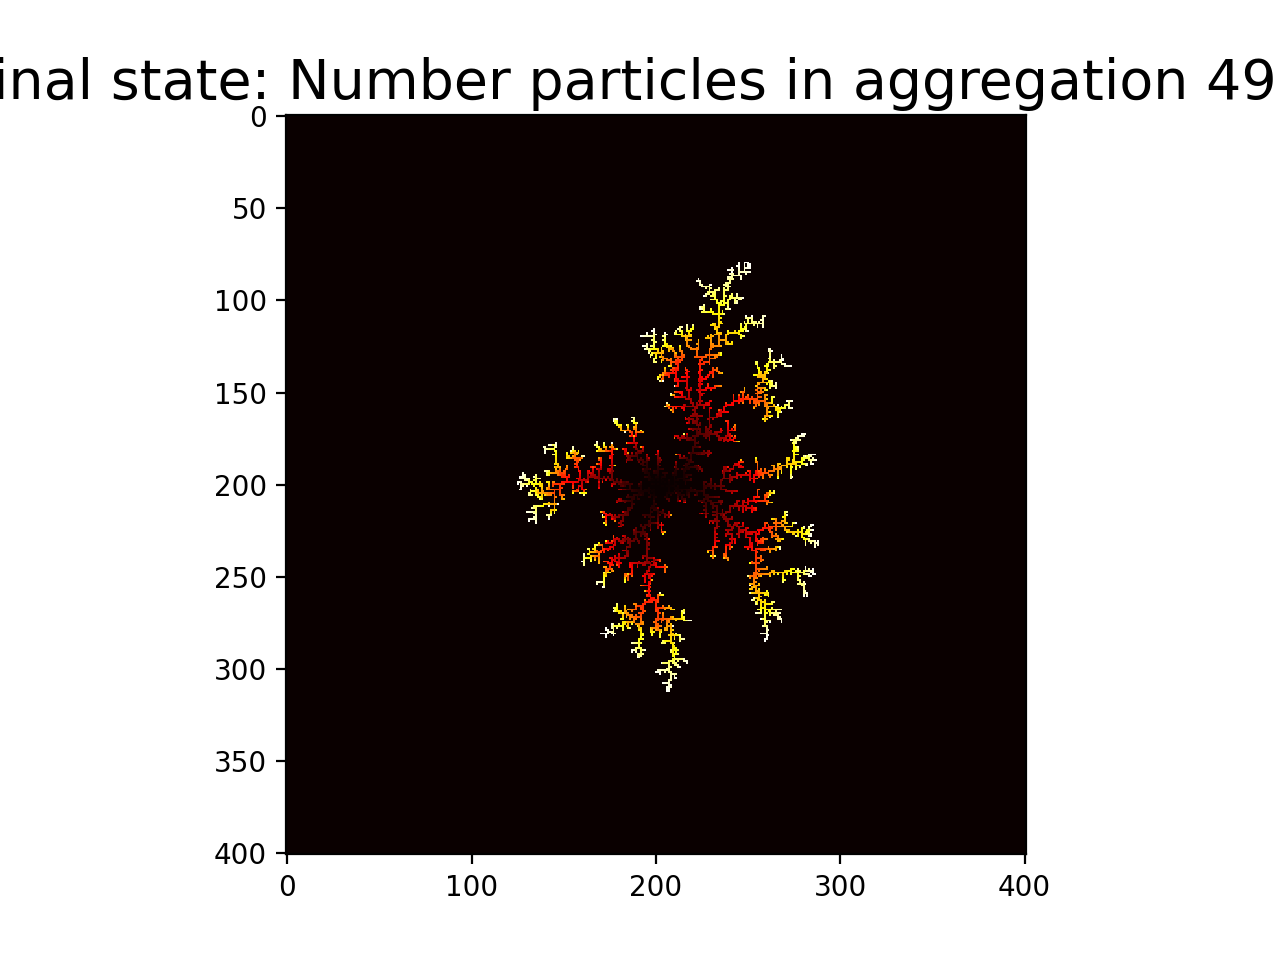
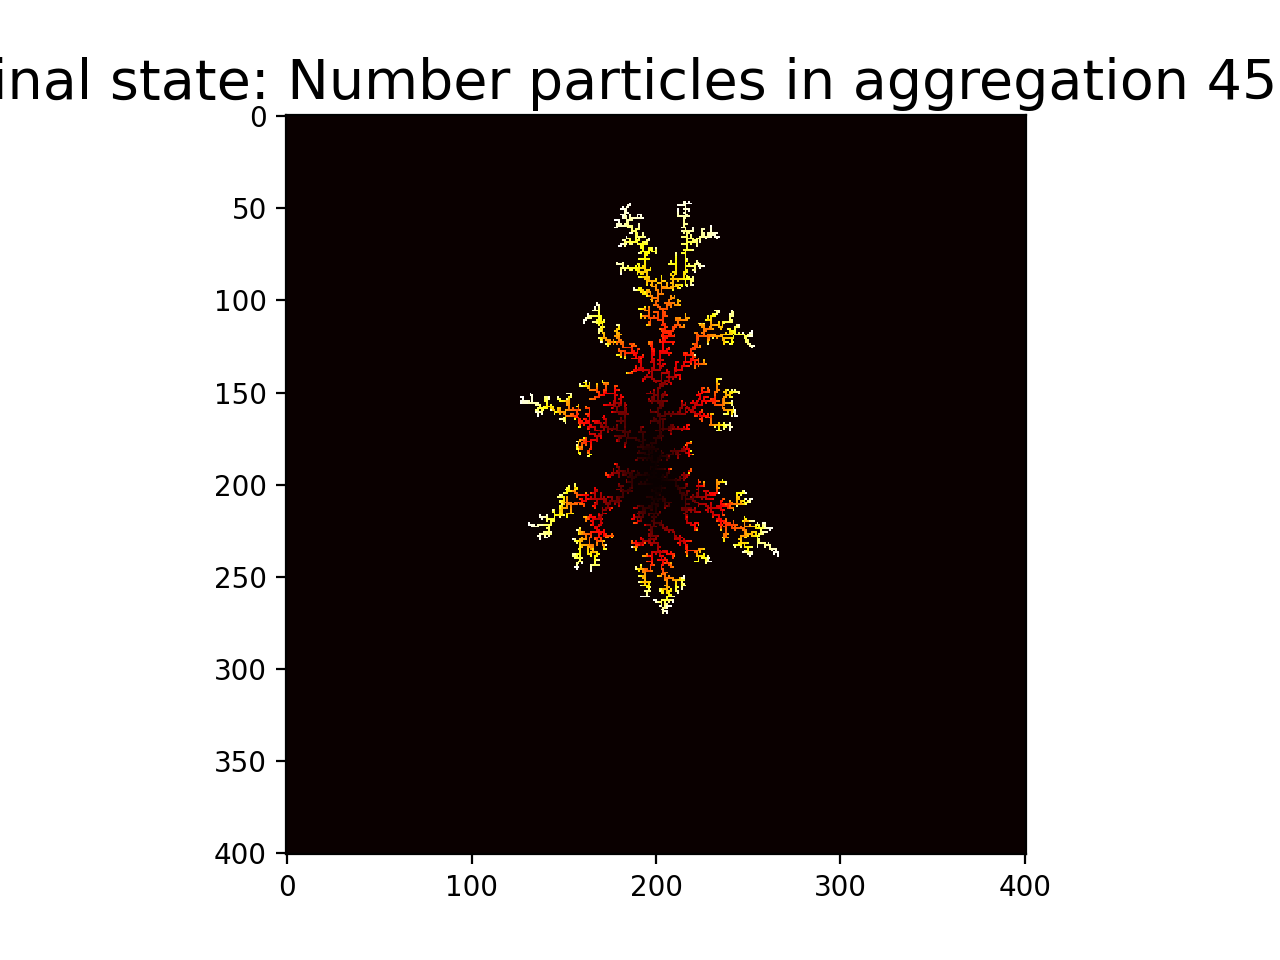
Update 2D continous DLA

diff --git a/DLA.py b/DLA.py
@@ -5,13 +5,14 @@ import random
 import matplotlib.pyplot as plt
 from GifRecorder import GifRecoder
 from ImageRecorder import ImageRecoder
+
+
 class DLA:
-    def __init__(self, radius_limit: int, numParticles: int, stickDistribution: StickDistribution):
+    def __init__(self, radius_limit: int, numParticles: int, stickDistribution: StickDistribution, result_name_file=None):
         self.radius_limit = radius_limit
         self.numParticles = numParticles
         self.stickDistribution = stickDistribution
         self.stickDistribution.dla = self
-
         size = 2*self.radius_limit+1
         self.surface_matrix = np.zeros((size,size),dtype=np.int32)
 
@@ -22,28 +23,45 @@ class DLA:
         self.gen_radius = self.max_radius+5
         self.remove_radius = self.max_radius+20
 
-        self.nnStepsPos = [(1,0), (0,1), (-1,0), (0,-1)]
-        self.nnStepsIndex = [(self.radius_limit+1,self.radius_limit),
-                             (self.radius_limit,self.radius_limit+1),
-                             (self.radius_limit - 1, self.radius_limit),
-                             (self.radius_limit, self.radius_limit - 1)]
+        self.nnStepsPos = [(1,0), (0,1), (-1,0), (0,-1), (-1, -1), (-1, 1), (1, -1), (1, 1)]
+        self.nnStepsIndex = [(self.radius_limit+1, self.radius_limit),
+                             (self.radius_limit, self.radius_limit+1),
+                             (self.radius_limit-1, self.radius_limit),
+                             (self.radius_limit, self.radius_limit - 1),
+                             (self.radius_limit-1, self.radius_limit-1),
+                             (self.radius_limit-1, self.radius_limit+1),
+                             (self.radius_limit+1, self.radius_limit-1),
+                             (self.radius_limit+1, self.radius_limit+1)]
 
+        self.result_name_file = result_name_file
         self.recordIntervals = list(range(0,numParticles,50))
-        self.recorders = {"gif": GifRecoder(dla=self),
-                          "image": ImageRecoder(dla=self)}
+        self.recorders = {"gif": GifRecoder(dla=self, name_file=self.result_name_file),
+                          "image": ImageRecoder(dla=self, name_file=self.result_name_file)}
 
+
+    # pos is relative point to midpoint of the matrix.
+    # Assume midpoint=(0,0) but actually MidPoint=(self.radius_limit,self.radius_limit)
+    # Function: Check pos is in circle which has a remove_radius
     def inKeepCircle(self, pos: (int, int)) -> bool:
         if pos[0]**2 + pos[1]**2 <= self.remove_radius**2:
             return True
         else:
             return False
 
+    # Function: Check Is there 0-value at neighborhood position. Return false if 0-value at pos or true
     def isNNOccupied(self, pos: (int, int)) -> bool:
         for stepIndex in self.nnStepsIndex:
             if self.surface_matrix[pos[0]+stepIndex[0],pos[1]+stepIndex[1]]:
                 return True
         return False
 
+    def isOccupied(self, pos: (int, int)) -> bool:
+        if self.surface_matrix[pos[0] + self.radius_limit, pos[1] + self.radius_limit]:
+            return True
+        else:
+            return False
+
+    # Function: Update state of DLA when particle hit aggregation
     def hitUpdate(self, pos: (int, int)):
         self.num_hits += 1
         self.surface_matrix[pos[0]+self.radius_limit,pos[1]+self.radius_limit] = self.num_hits
@@ -54,11 +72,14 @@ class DLA:
             self.gen_radius = min(self.max_radius+5,self.radius_limit-1)
             self.remove_radius = min(self.max_radius+20,self.radius_limit-1)
 
+    # Function: A Stage for diffusion: particle random walk in lattice
+    # Return: A boolean which check particle is in safe circle, new position
     def genStep(self, pos: (int, int)) -> (bool, (int, int)):
         step = random.choice(self.nnStepsPos)
         new_pos = (pos[0]+step[0],pos[1]+step[1])
         return self.inKeepCircle(new_pos), new_pos
 
+    # Function: Check particle hit and stick to aggregation ?
     def checkAggregate(self, pos: (int, int)) -> bool:
         if self.isNNOccupied(pos):
             if self.stickDistribution.can_stick(pos):
@@ -68,11 +89,13 @@ class DLA:
         else:
             return False
 
+    # Function: Random position in circle which has a gen_radius
     def random_pos(self):
         angle = random.random()*2*pi
         pos = (int(sin(angle) * self.gen_radius), int(cos(angle) * self.gen_radius))
         return pos
 
+    # Function: Add particle reach until particle binding to aggregation (try 10. If particle hasn't added, ignore it)
     def addWalker(self, max_try=10):
         flag = False
         while max_try:

diff --git a/GeneralDLA.py b/GeneralDLA.py
@@ -1,0 +1,112 @@
+import numpy as np
+import random as random
+from math import pi, cos, sin, sqrt
+from StickDistribution import StickDistribution
+from utils import Helper
+
+class GeneralDLA():
+
+    def __init__(self, num_particle, limit_radius, stick_distribution: StickDistribution, bias=0):
+
+        self.num_particle = num_particle
+        self.limit_radius = limit_radius
+        self.particles = np.zeros((num_particle, 3))
+        self.particles[0] = (0, 0, 0)
+        self.stick_distribution = stick_distribution
+        self.seed_particle_x = limit_radius
+        self.seed_particle_y = limit_radius
+        # Can change hype parameter in here
+        self.radius_bounding = 0
+        self.radius_gen = self.radius_bounding + 4
+        self.radius_kill = self.radius_gen + 4
+        self.radius_circle = 1
+        self.radius_step = self.radius_circle
+        self.stick_distance = self.radius_circle * 2
+        self.particles[:, 2] = self.radius_circle
+        self.bias = bias
+
+    @staticmethod
+    def distance(pos1: (int, int), pos2: (int, int) = None) -> float:
+        if pos2 is not None:
+            return sqrt((pos1[0] - pos2[0]) ** 2 + (pos1[1] - pos2[1]) ** 2)
+        else:
+            return sqrt((pos1[0]) ** 2 + (pos1[1]) ** 2)
+
+    def brownian_motion(self, time):
+        pass
+
+    def diffusion(self, x, y):
+        # Implementation for random walker
+        angle = random.random() * 2 * pi
+        dx = self.radius_step * cos(angle)
+        dy = self.radius_step * sin(angle)
+        if self.bias == 0:
+            return x + dx, y + dx
+        else:
+            dis = GeneralDLA.distance((x, y))
+            new_x = x + dx - self.bias * x / dis
+            new_y = y + dy - self.bias * y / dis
+            return new_x, new_y
+
+    def bindingToAggregation(self, index, x, y):
+        self.particles[index][0] = x
+        self.particles[index][1] = y
+        dis = GeneralDLA.distance((x, y))
+        if dis > self.radius_bounding:
+            self.radius_bounding = dis
+            self.radius_gen = self.radius_bounding + 4
+            self.radius_kill = self.radius_gen + 4
+
+    def randomGenPosition(self):
+        # random_radius = random.randrange(self.gen+1, self.radius_kill)
+        angle = random.random() * 2 * pi
+        x = self.radius_gen * cos(angle)
+        y = self.radius_gen * sin(angle)
+
+        return x, y
+
+    def isBindingToAggregation(self, index, x, y):
+        is_bounding = False
+        for pre_index in range(index):
+            dx = x - self.particles[pre_index][0]
+            dy = y - self.particles[pre_index][1]
+            dis = GeneralDLA.distance((dx, dy))
+            if dis <= self.stick_distance:
+                is_bounding = True
+                break
+        if is_bounding:
+            if self.stick_distribution.can_stick((x, y)):
+                return True
+            return False
+        return False
+
+    def isInSafeArea(self, x, y):
+        dis = GeneralDLA.distance((x, y))
+        if dis < self.radius_kill:
+            return True
+        return False
+
+    def build(self):
+        for index in range(self.num_particle - 1):
+            index += 1
+            # Random position for particle
+            x, y = self.randomGenPosition()
+            print('start x, y:', x, y)
+            while not self.isBindingToAggregation(index, x, y):
+                x, y = self.diffusion(x, y)
+                if not self.isInSafeArea(x, y):
+                    x, y = self.randomGenPosition()
+            self.bindingToAggregation(index, x, y)
+            print('===========Particle:', index)
+
+        for index, particle in enumerate(self.particles):
+            self.particles[index][0] = particle[0] + self.seed_particle_x
+            self.particles[index][1] = particle[1] + self.seed_particle_y
+
+    def simulation(self, file_name):
+        self.build()
+        Helper.simulate_dla(self.particles, self.limit_radius, file_name)
+
+
+if __name__ == '__main__':
+    print(GeneralDLA.distance((3, 4)))

diff --git a/GifRecorder.py b/GifRecorder.py
@@ -4,10 +4,11 @@ import matplotlib.pyplot as plt
 import os
 
 class GifRecoder(Recorder):
-    def __init__(self, dla = None):
+    def __init__(self, dla = None, name_file=None):
         super(GifRecoder, self).__init__(dla=dla)
         self.states = []
         self.count = 0
+        self.name_file = name_file
 
     def record(self):
         label = "Number particles in aggregation "+str(self.dla.num_hits)
@@ -19,7 +20,7 @@ class GifRecoder(Recorder):
 
     def export_result(self):
         self.record()
-        with imageio.get_writer('images/movie.gif', mode='I') as writer:
+        with imageio.get_writer('images/' + self.name_file + '.gif', mode='I') as writer:
             for i in range(self.count):
                 filename="images/cluster"+str(i)+".png"
                 image = imageio.imread(filename)

diff --git a/ImageRecorder.py b/ImageRecorder.py
@@ -2,8 +2,9 @@ from Recorder import Recorder
 import matplotlib.pyplot as plt
 
 class ImageRecoder(Recorder):
-    def __init__(self, dla = None):
+    def __init__(self, dla = None, name_file=None):
         super(ImageRecoder, self).__init__(dla=dla)
+        self.name_file = name_file
 
     def record(self):
         pass
@@ -12,5 +13,5 @@ class ImageRecoder(Recorder):
         label = "Final state: Number particles in aggregation " + str(self.dla.num_hits)
         plt.title(label, fontsize=20)
         plt.imshow(self.dla.surface_matrix, cmap='hot', interpolation='nearest')
-        plt.savefig("images/final_result.png", dpi=200)
+        plt.savefig("images/" + self.name_file + ".png", dpi=200, bbox_inches = 'tight')
         plt.close()

diff --git a/main.py b/main.py
@@ -1,9 +1,18 @@
+import time
 from ConstantStickDistribution import ConstantStickDistribution
 from DLA import DLA
+from GeneralDLA import GeneralDLA
 
 stickDist = ConstantStickDistribution(proba=0.6)
-dla = DLA(radius_limit=200,numParticles=5000,stickDistribution=stickDist)
 
-dla.simulate()
+# dla = DLA(radius_limit=200, numParticles=5000, stickDistribution=stickDist, result_name_file='result_2')
+#
+# start = time.time()
+# dla.simulate()
+# end = time.time()
+# print('Time dla:', end - start)
+# print(dla.num_hits)
 
 
+g_dla = GeneralDLA(limit_radius=200, num_particle=100, stick_distribution=stickDist, bias=0)
+g_dla.simulation(file_name='test_general_dla')

diff --git a/utils.py b/utils.py
@@ -1,0 +1,19 @@
+import matplotlib.pyplot as plt
+
+class Helper:
+
+    @staticmethod
+    def simulate_dla(particles: (float, float, float), limit_radius, file_name):
+        fig, ax = plt.subplots()
+
+        for particle in particles:
+            x = particle[0]
+            y = particle[1]
+            r = particle[2]
+            print(x, y, r)
+            circle = plt.Circle((x, y), r, color='r', clip_on=False)
+            ax.add_patch(circle)
+        ax.set_xlim((0, limit_radius * 2))
+        ax.set_ylim((0, limit_radius * 2))
+        plt.show()
+        plt.savefig('images/' + file_name + '.png', dpi=200, bbox_inches = 'tight')
